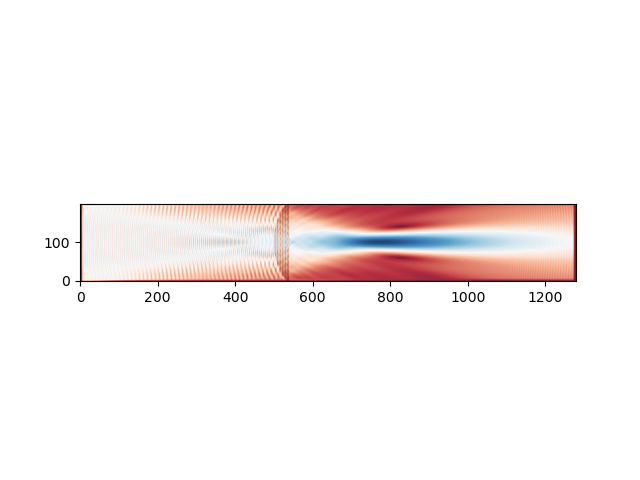
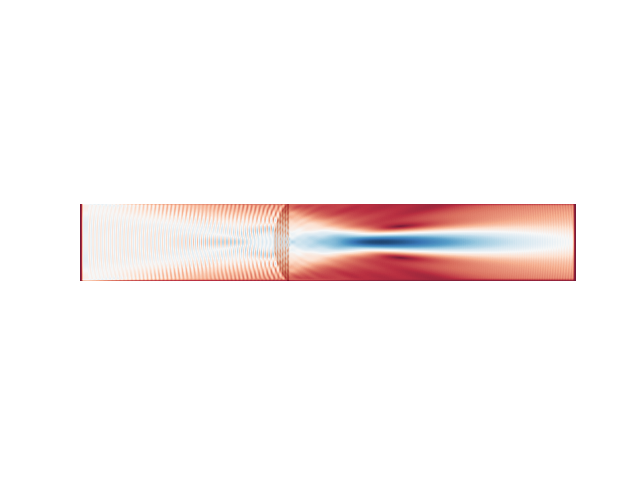
documentation for Luneburg lens

diff --git a/docs/source/reflection_and_refraction.rst b/docs/source/reflection_and_refraction.rst
@@ -89,6 +89,7 @@ Now we run the simulation until 75. This time is long enough because then the wa
     plt.figure()
     plt.imshow(abs(eps_data).transpose(), interpolation="spline36", cmap="binary", origin="lower")
     plt.imshow(abs(ez_data).transpose(), interpolation="spline36", cmap="RdBu", alpha=0.9, origin="lower")
+    plt.axis("off")
 
 .. figure:: refraction_figures/lens_end_field.png
    :alt: test text
@@ -118,6 +119,8 @@ To estimate the focal length we examine the electric field at the middle of the 
     plt.plot(pointsSx, abs(center_dataSx), label='Sx')
     plt.plot(pointsSx, Ez2Sx, label='Ez**2/Sx')
     plt.legend(loc="upper right", title="f = {:.2f}".format(focal_length))
+    plt.xlabel('distance')
+    plt.ylabel('a.u.')
     plt.savefig("Intensity_after_lens.png")
     plt.show()
 
@@ -126,7 +129,7 @@ To estimate the focal length we examine the electric field at the middle of the 
    :width: 90%
    :align: center
 
-We can create animation of the simulation using Animate2D object and at_every function.
+We can create an animation of the simulation using Animate2D object and at_every function.
 
 .. code-block :: python
 
@@ -142,15 +145,15 @@ We can create animation of the simulation using Animate2D object and at_every fu
     filename = "./Lens_animation.mp4"
     Animate.to_mp4(10, filename)
 
-We notice the ratio of :math:`\left|E_{z}\right|^{2}` and :math:`S_{x}` is 2 other than at the close vicinity from the lens where there is a lot of error. Intensity is defined as the magnitude of the Poynting vector but also corresponds to the square of the electric field:
+We notice the ratio of :math:`\left|E_{z}\right|^{2}` and :math:`S_{x}` is 2 other than at the close vicinity from the lens where there is a lot of error. Intensity is defined as the magnitude of the Poynting vector but also corresponds to the square of the electric field [1]:
 
 .. math::
 
-    \frac{1}{2}cn\varepsilon_{0}\left|{E}\right|^{2}
+    I=\frac{1}{2}cn\varepsilon_{0}\left|{E}\right|^{2}
 
 In meep speed of light and vacuum permittivity are defined as 1. Thus the square of Ez is twice as large as Sz as it should be.
 
-Focal length depeds on refractive index and curvature of the lens according to Lens-Maker's equation:
+Focal length depeds on refractive index and curvature of the lens according to Lens-Maker's equation [2]:
 
 .. math::
 
@@ -167,4 +170,97 @@ The focal length is the length in the plot where the maximum intensity is reache
 Demo 2: Luneburg lens
 =====================
 
-Luneburg lens
+Luneburg lens is a spherically symmetric gradient-index lens. The refractive index of the lens decreases radially from the center of the lens. Certain index profiles have the property to be able to create a perfect geometric image of any two concentric spheres to each other. The simplest solution for this kind of lens of infinite possible solutions was proposed by Rudolf Luneburg in 1944. [3]
+
+The libraries are imported and cell and perfectly mached layers created as usual.
+
+.. code-block :: python
+
+    import meep as mp
+    import numpy as np
+    import matplotlib.pyplot as plt
+
+    sx=32
+    sy=20
+    cell = mp.Vector3(sx,sy,0)
+
+    dpml=1.0
+    pml_layers=[mp.PML(dpml)]
+
+We place a dot source at radius of the lens (the largest sphere we are going to create).
+
+.. code-block :: python
+
+    full_radius = 8
+    sources = [mp.Source(mp.ContinuousSource(frequency=1),
+                        component=mp.Ez,
+                        center=mp.Vector3(-full_radius,0))]
+
+For Luneburg's solution for an ideal Luneburg lens we have the following equation for the refractive index:
+
+.. math::
+
+    n=\sqrt{2-{\left(\frac{r}{R}\right)}^2}
+
+Where R is the full radius of the lens and r is the radial distance from center [3]. We can approximate the lens by creating a large number of overlapping spheres where the radius gets smaller and the refractive index grows larger as we iterate. This can be done easily in python by using a while loop.
+
+.. code-block :: python
+
+    geometry=[]
+    i=0
+    sphere_num = 100
+    while i<sphere_num:
+        geometry.append(mp.Sphere(center=mp.Vector3(0,0),
+                radius=full_radius-i*full_radius/sphere_num,
+                material=mp.Medium(index=np.sqrt(2-((sphere_num-i)/sphere_num) ** 2))))
+        i = i+1
+
+We define the resolution, create the simulation object and run the simulation. After that we can plot the field at the end of the simulation and save the figure.
+
+
+.. code-block :: python
+
+    resolution=20
+    sim = mp.Simulation(cell_size=cell,
+                        boundary_layers=pml_layers,
+                        geometry=geometry,
+                        sources=sources,
+                        resolution=resolution)
+
+    sim.run(until=70)
+
+    eps_data = sim.get_array(center=mp.Vector3(), size=cell, component=mp.Dielectric)
+    ez_data = sim.get_array(center=mp.Vector3(), size=cell, component=mp.Ez)
+    plt.figure()
+    plt.imshow(eps_data.transpose(), interpolation="spline36", cmap="binary")
+    plt.imshow(ez_data.transpose(), interpolation="spline36", cmap="RdBu", alpha=0.9)
+    plt.axis("off")
+    plt.savefig("luneburg_end_field.png")
+    plt.show()
+
+.. figure:: refraction_figures/luneburg_end_field.png
+   :alt: test text
+   :width: 90%
+   :align: center
+
+We can also make an animation of the simulation using Animate2D object and at_every funtion.
+
+.. code-block :: python
+
+    sim.reset_meep()
+
+    f = plt.figure(dpi=100)
+    Animate = mp.Animate2D(fields=mp.Ez, f=f, realtime=False, normalize=True)
+    plt.close()
+
+    sim.run(mp.at_every(1, Animate), until=70)
+    plt.close()
+
+    filename = "./Luneburg_lens_animation.mp4"
+    Animate.to_mp4(10, filename)
+
+From the figure and the animation we can qualititively see that after the luneburg lens the electric field has became collimated wave and the focal point of the lens lies at infinity.
+
+.. [1] Wikipedia Intensity available:https://en.wikipedia.org/wiki/Intensity_(physics) referenced 11.2.2025
+.. [2] wikipedia Focal length available:https://en.wikipedia.org/wiki/Focal_length referenced 11.2.2025
+.. [3] Wikipedia Luneburg Lens available:https://en.wikipedia.org/wiki/Luneburg_lens referenced 18.2.2025
